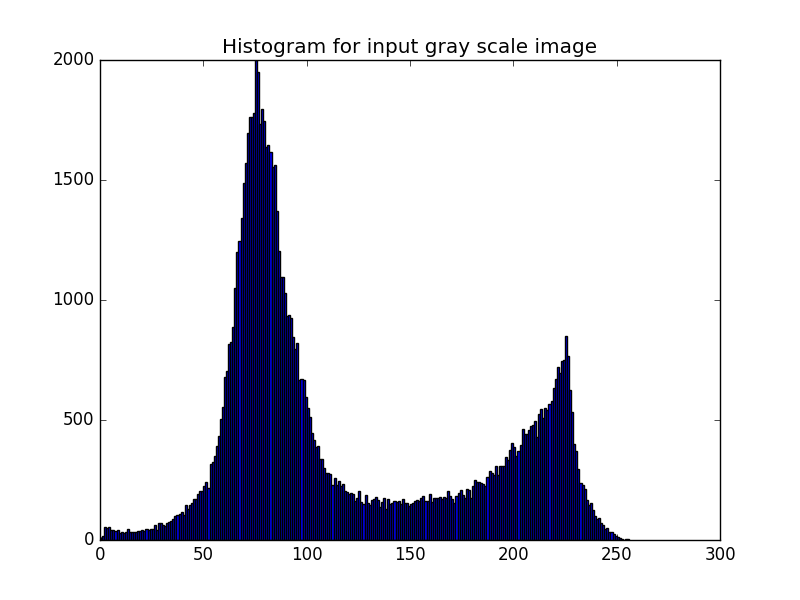
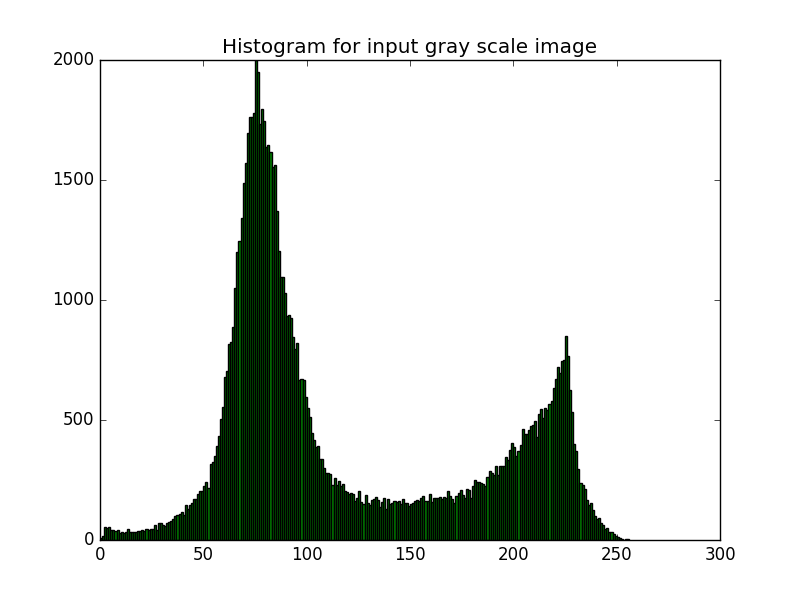
Update histogram equlization alg and rep

Changed region(s): [[0.125, 0.18, 0.7812, 0.9]]

diff --git a/02_Histogram_and_Spatial_Filtering/src/hist_equa.py b/02_Histogram_and_Spatial_Filtering/src/hist_equa.py
@@ -6,22 +6,20 @@ import matplotlib.pyplot as plt
 
 
 def equalize_hist(input_img):
+    """
+    Do histogram equalization on the input image and
+    return the equalized result.
+    """
     height, width = input_img.shape
     output_img = np.zeros_like(input_img)
-    # bin_counts, bin_edges = np.histogram(input_img, bins=np.arange(257))
-    bin_counts = []
-    for idx in xrange(256):
-        bin_counts.append(0)
-    for item in input_img.ravel():
-        bin_counts[item] += 1
 
+    bin_counts = gen_histogram(input_img)
     cnt_len = float(height * width)
     sk = []
     cnt_sum = 0
     for item in bin_counts:
         cnt_sum += item
         sk.append(cnt_sum / cnt_len)
-    print sk
 
     for row in xrange(height):
         for col in xrange(width):
@@ -30,8 +28,26 @@ def equalize_hist(input_img):
     return output_img
 
 
-def show_histogram(img, img_type="input"):
-    plt.hist(img.ravel(), 256, [0, 256])
+def gen_histogram(img):
+    """
+    Count up the number of per gray level value in the given image and
+    return it as a list.
+    """
+    bin_counts = []
+    for idx in xrange(256):
+        bin_counts.append(0)
+    for item in img.ravel():
+        bin_counts[item] += 1
+    return bin_counts
+
+
+def save_histogram(img, img_type="input"):
+    """
+    Genearte the histogram of the given image and save it to disk
+    """
+    bin_counts = gen_histogram(img)
+    plt.bar(range(256), bin_counts, width=1.0, color="green")
+
     plt.title("Histogram for %s gray scale image" % img_type)
     # plt.show()
     fig_title = "images/%s_hist.png" % img_type
@@ -41,11 +57,13 @@ def show_histogram(img, img_type="input"):
 
 
 def main():
+    # get input image histogram and save it
     input_img = np.array(Image.open('images/72.png').convert('L'))
-    show_histogram(input_img)
+    save_histogram(input_img)
+    # equalize the given image and save its histogram
     output_img = equalize_hist(input_img)
-    show_histogram(output_img, img_type="output")
-    
+    save_histogram(output_img, img_type="output")
+    # save the equalized result to disk
     output_img = Image.fromarray(output_img, 'L')
     output_img.save('images/equalize_72.png')
     print "Successfully save output image"

diff --git a/02_Histogram_and_Spatial_Filtering/report.md b/02_Histogram_and_Spatial_Filtering/report.md
@@ -34,3 +34,29 @@ $$
 ## 2 Programming Tasks
 
 ### 2.2 Histogram Equalization
+
+* **2.2.1 Compute and display its histogram.**
+
+![](src/images/72.png)
+
+![](src/images/input_hist.png)
+
+* **2.2.2 Equalize its histogram.**
+
+![](src/images/equalize_72.png)
+
+![](src/images/output_hist.png)
+
+* **2.2.3 Analyze your histogram-equalized result**
+
+The histogram equalized result is a little bit clear visually. Some details are exposed expecially on the top of the mountain shown in the image. **However**, the result is not that better as I have imaged, and the result seems **unnatural** to some extend.
+
+* **2.2.4 Detailedly discuss how you implement the histogram equalization operation.**
+
+The "equalize hist" function is implemented by the following three step:
+
+1. Count up the number of per gray level value, store than in a list, where index is gray level value and the value is the number.
+2. Calculate cummulative distribution, walk through the list get in step 1, for every position, set the value as the sum of all the value before it, and then divide it by the total pixel number of the image, and store it in another list.
+3. Map the original gray level value to the list value got in step 2, and multiply it by 255 according to the way python displays image.
+
+The histogram is displayed by using **bar chart**, where x is set as `range(256)` and y is set as the list got from step 1 shown above. And the bar chart can be shown by using `matplotlib.pyplot.bar` in python.
